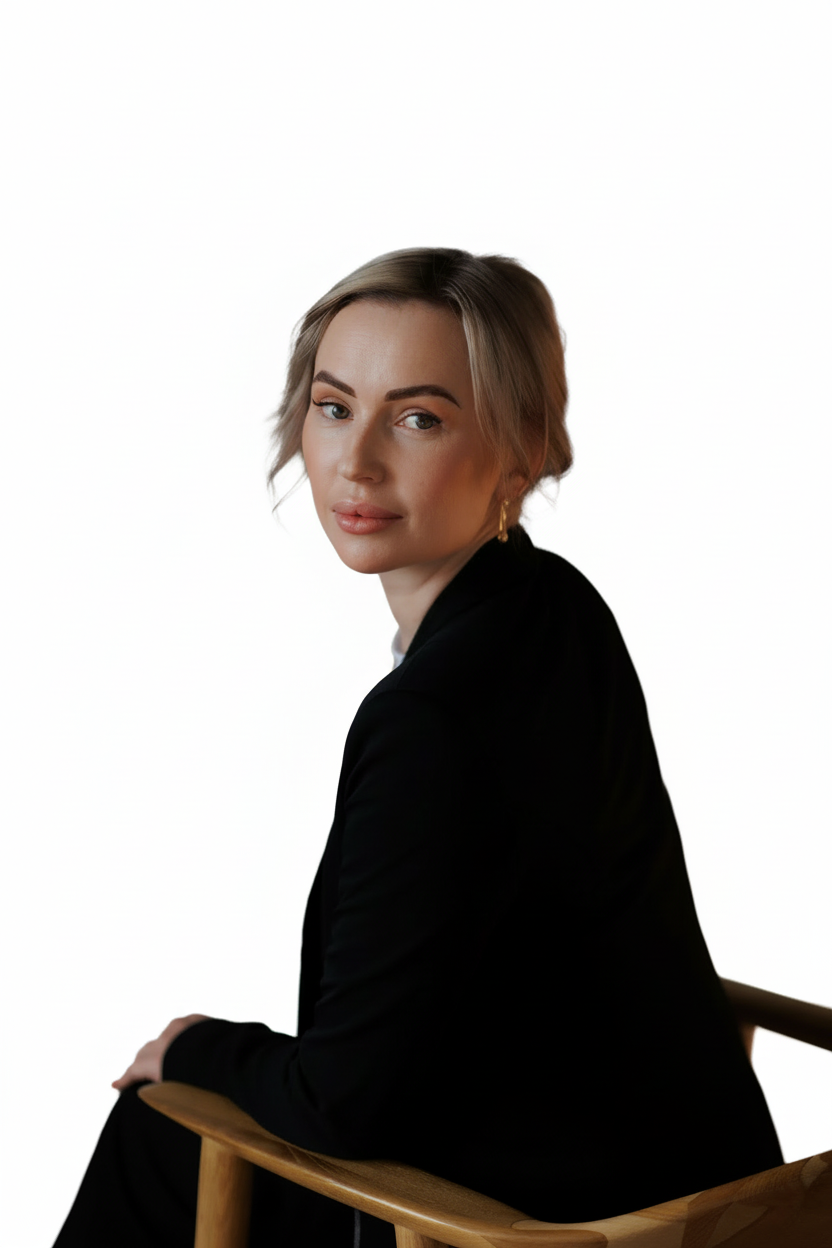
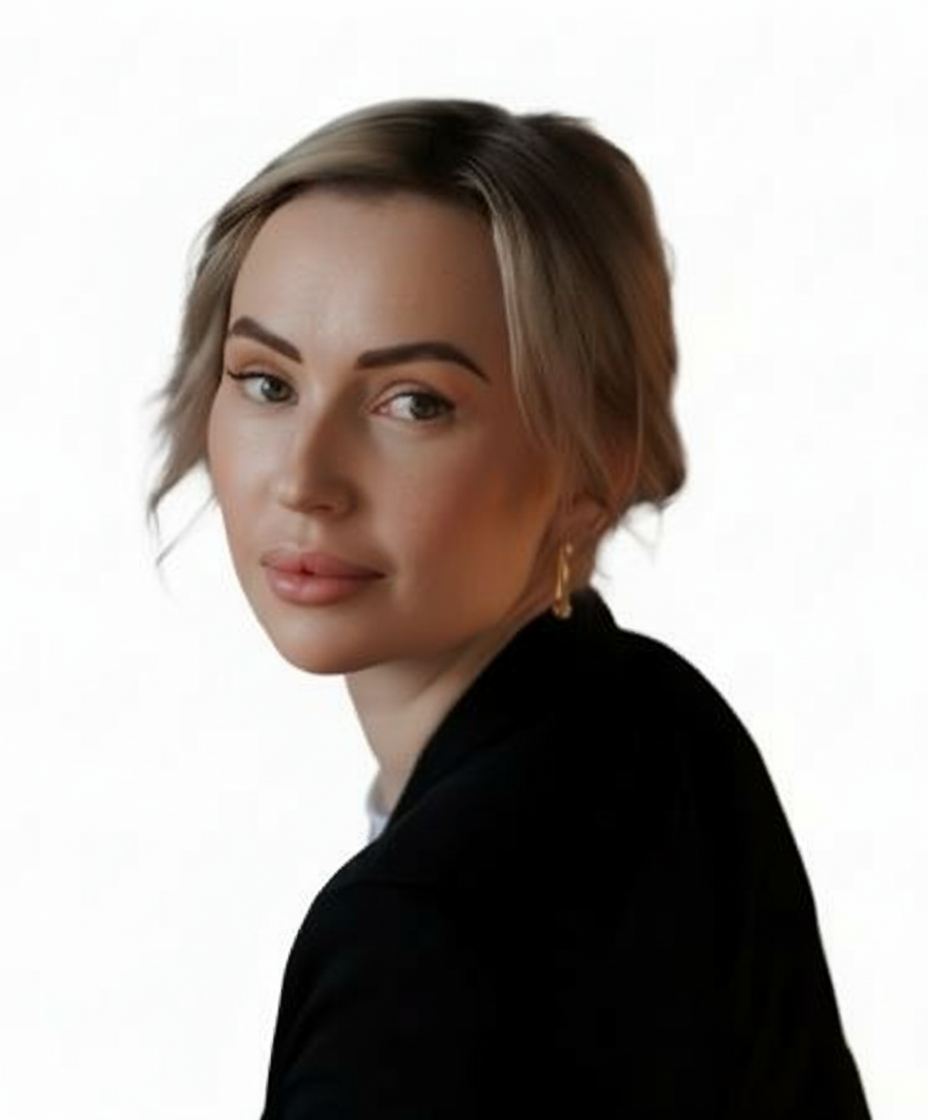
Changes

diff --git a/src/components/Hero.tsx b/src/components/Hero.tsx
@@ -185,7 +185,7 @@ const Hero = () => {
                 <OptimizedImage 
                   src={alexandraPortrait} 
                   alt="Александра Моисеева - AI консультант" 
-                  className="w-full h-full object-cover object-[center_20%] scale-125" 
+                  className="w-full h-full object-cover object-top" 
                   priority 
                   responsive
                   sizes="(max-width: 640px) 280px, (max-width: 1024px) 320px, 380px"
